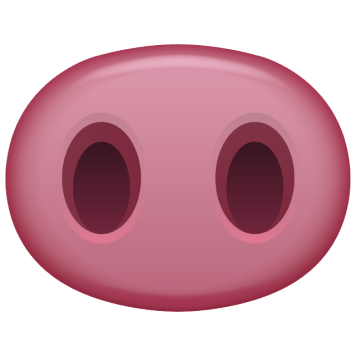
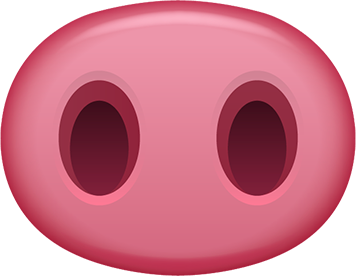
new pig

diff --git a/app/css/main.css b/app/css/main.css
@@ -1,3 +1,4 @@
+@import url("https://fonts.googleapis.com/css?family=Pacifico&subset=cyrillic");
 html, body, div, span, applet, object, iframe, h1, h2, h3, h4, h5, h6, p, blockquote, pre, a, abbr, acronym, address, big, cite, code, del, dfn, em, img, ins, kbd, q, s, samp, small, strike, strong, sub, sup, tt, var, b, u, i, center, dl, dt, dd, ol, ul, li, fieldset, form, label, legend, table, caption, tbody, tfoot, thead, tr, th, td, article, aside, canvas, details, embed, figure, figcaption, footer, header, hgroup, menu, nav, output, ruby, section, summary, time, mark, audio, video {
   margin: 0;
   padding: 0;
@@ -37,33 +38,36 @@ body {
   overflow: hidden;
   position: relative; }
 
+body {
+  font-family: 'Pacifico', cursive; }
+
 #granim-canvas {
   width: 100%;
   height: 100vh; }
 
 #particles-js {
-  width: 100%;
-  height: 100vh;
   position: absolute;
-  bottom: 0;
+  top: 0;
   right: 0;
+  bottom: 0;
   left: 0;
-  top: 0; }
+  width: 100%;
+  height: 100vh; }
 
 .full-hru {
   position: absolute;
-  height: 100vh;
   z-index: 1;
   top: 0;
   right: 0;
   bottom: 0;
-  left: 0; }
+  left: 0;
+  height: 100vh; }
   .full-hru .hru-content {
-    height: 100vh;
     display: -webkit-box;
     display: -webkit-flex;
     display: -ms-flexbox;
     display: flex;
+    height: 100vh;
     -webkit-box-align: center;
     -webkit-align-items: center;
         -ms-flex-align: center;
@@ -74,18 +78,28 @@ body {
       .full-hru .hru-content .hru-blya .hru-title {
         min-height: 80px; }
         .full-hru .hru-content .hru-blya .hru-title p {
-          font-size: 40px;
-          color: #fff; }
+          color: #fff;
+          font-size: 40px; }
       .full-hru .hru-content .hru-blya button {
-        border: 1px solid transparent;
-        background: transparent url("../../img/pig.png") no-repeat center top;
-        -webkit-background-size: cover;
-                background-size: cover;
+        display: inline-block;
         width: 356px;
         height: 356px;
-        outline: none;
+        margin: 0 auto;
         cursor: pointer;
-        display: inline-block;
-        margin: 0 auto; }
+        -webkit-transition: all ease .1s;
+        -o-transition: all ease .1s;
+        transition: all ease .1s;
+        border: 1px solid transparent;
+        outline: none;
+        background: transparent url("../../img/pig-shadow.png") no-repeat center top;
+        -webkit-background-size: contain;
+                background-size: contain; }
+      .full-hru .hru-content .hru-blya button:focus {
+        -webkit-transition: all ease .1s;
+        -o-transition: all ease .1s;
+        transition: all ease .1s;
+        background: transparent url("../../img/pig.png") no-repeat 10% 10%;
+        -webkit-background-size: contain;
+                background-size: contain; }
 
 /*# sourceMappingURL=maps/main.css.map */

diff --git a/app/js/main.js b/app/js/main.js
@@ -6,8 +6,7 @@ $(document).ready(function () {
 
         $(this).attr('disabled', 'disabled');
 
-        let arr = ["Если Вы проявите инициативу, успех не заставит себя ждать.", "Ваши надежды и планы сбудутся" +
-        " сверх всяких ожиданий.", "Готовьтесь к романтическим приключениям.", "В этом месяце ночная жизнь для вас.", "Вам пора отдохнуть.", "Вам предлагается мечта всей жизни. Скажите да!", "Вас ждет приятный сюрприз.", "Ваши надежды и планы сбудутся сверх всяких ожиданий.", "Время – ваш союзник, лучше отложить принятие важного решения хотя бы на день.", "Время и терпение,  вас ждут много сюрпризов!", "Время осушит все слезы и исцелит все раны."];
+        let arr = ["Если Вы проявите инициативу, всё накроется медным тазом ибо вы рукожоп.", "Ваши надежды и планы лишь глупый вымысел вашей некчемной жизни.", "Готовьтесь к  приключениям.", "В этом месяце ночная жизнь для вас.", "Вам пора отдохнуть.", "Вам предлагается мечта всей жизни. Скажите да!", "Вас ждет приятный сюрприз.", "Ваши надежды и планы сбудутся сверх всяких ожиданий.", "Время – ваш союзник, лучше отложить принятие важного решения хотя бы на день.", "Время и терпение,  вас ждут много сюрпризов!", "Время осушит все слезы и исцелит все раны."];
 
         let hruTitle = $('.hru-title p');
 
@@ -37,5 +36,4 @@ $(document).ready(function () {
         audio.play();
 
     });
-
 });

diff --git a/app/sass/components/gramcomponents.scss b/app/sass/components/gramcomponents.scss
@@ -1,52 +1,72 @@
+body {
+	font-family: 'Pacifico', cursive;
+
+}
 #granim-canvas {
 	width: 100%;
 	height: 100vh;
 }
 
 #particles-js {
+	position: absolute;
+	top: 0;
+	right: 0;
+	bottom: 0;
+	left: 0;
+
 	width: 100%;
 	height: 100vh;
-	position: absolute;
-	bottom: 0;
-	right: 0;
-	left: 0;
-	top: 0;
 }
 
 .full-hru {
 	position: absolute;
-	height: 100vh;
 	z-index: 1;
 	top: 0;
 	right: 0;
 	bottom: 0;
 	left: 0;
 
+	height: 100vh;
+
 	.hru-content {
-		height: 100vh;
 		display: flex;
+
+		height: 100vh;
+
 		align-items: center;
 		.hru-blya {
 			width: 100%;
+
 			text-align: center;
 			.hru-title {
 				min-height: 80px;
 				p {
-					font-size: 40px;
 					color: #fff;
+
+					font-size: 40px;
 				}
 			}
 
 			button {
-				border: 1px solid transparent;
-				background: transparent url("../../img/pig.png") no-repeat center top;
-				background-size: cover;
+				display: inline-block;
+
 				width: 356px;
 				height: 356px;
-				outline: none;
-				cursor: pointer;
-				display: inline-block;
 				margin: 0 auto;
+
+				cursor: pointer;
+				transition: all ease .1s;
+
+				border: 1px solid transparent;
+				outline: none;
+				background: transparent url("../../img/pig-shadow.png") no-repeat center top;
+				background-size: contain;
+			}
+			button:focus {
+				transition: all ease .1s;
+
+				background: transparent url("../../img/pig.png") no-repeat 10% 10%;
+				background-size: contain;
 			}
 		}
 	}

diff --git a/app/index.html b/app/index.html
@@ -4,7 +4,7 @@
     <meta charset="utf-8" />
     <meta name="viewport" content="width=device-width, initial-scale=1.0" />
 
-    <title>DCM services</title>
+    <title>Piggy</title>
 
     <link rel="shortcut icon" type="image/x-icon" href="favicon.ico" />
 
@@ -25,10 +25,10 @@
             <div class="col">
                 <div class="hru-content">
                     <div class="hru-blya">
+                        <button id="hru"></button>
                         <div class="hru-title">
                             <p></p>
                         </div>
-                        <button id="hru"></button>
                     </div>
                 </div>
             </div>

diff --git a/app/sass/base/_typography.scss b/app/sass/base/_typography.scss
@@ -1,4 +1,1 @@
-// Подключения шрифтов, элементы текста которым присваивается стиль шрифта и размер
-// Названия шрифтов, папок, шрифтов в папке обязательно пишутся с маленькой буквы
-
-
+@import url('https://fonts.googleapis.com/css?family=Pacifico&subset=cyrillic');
